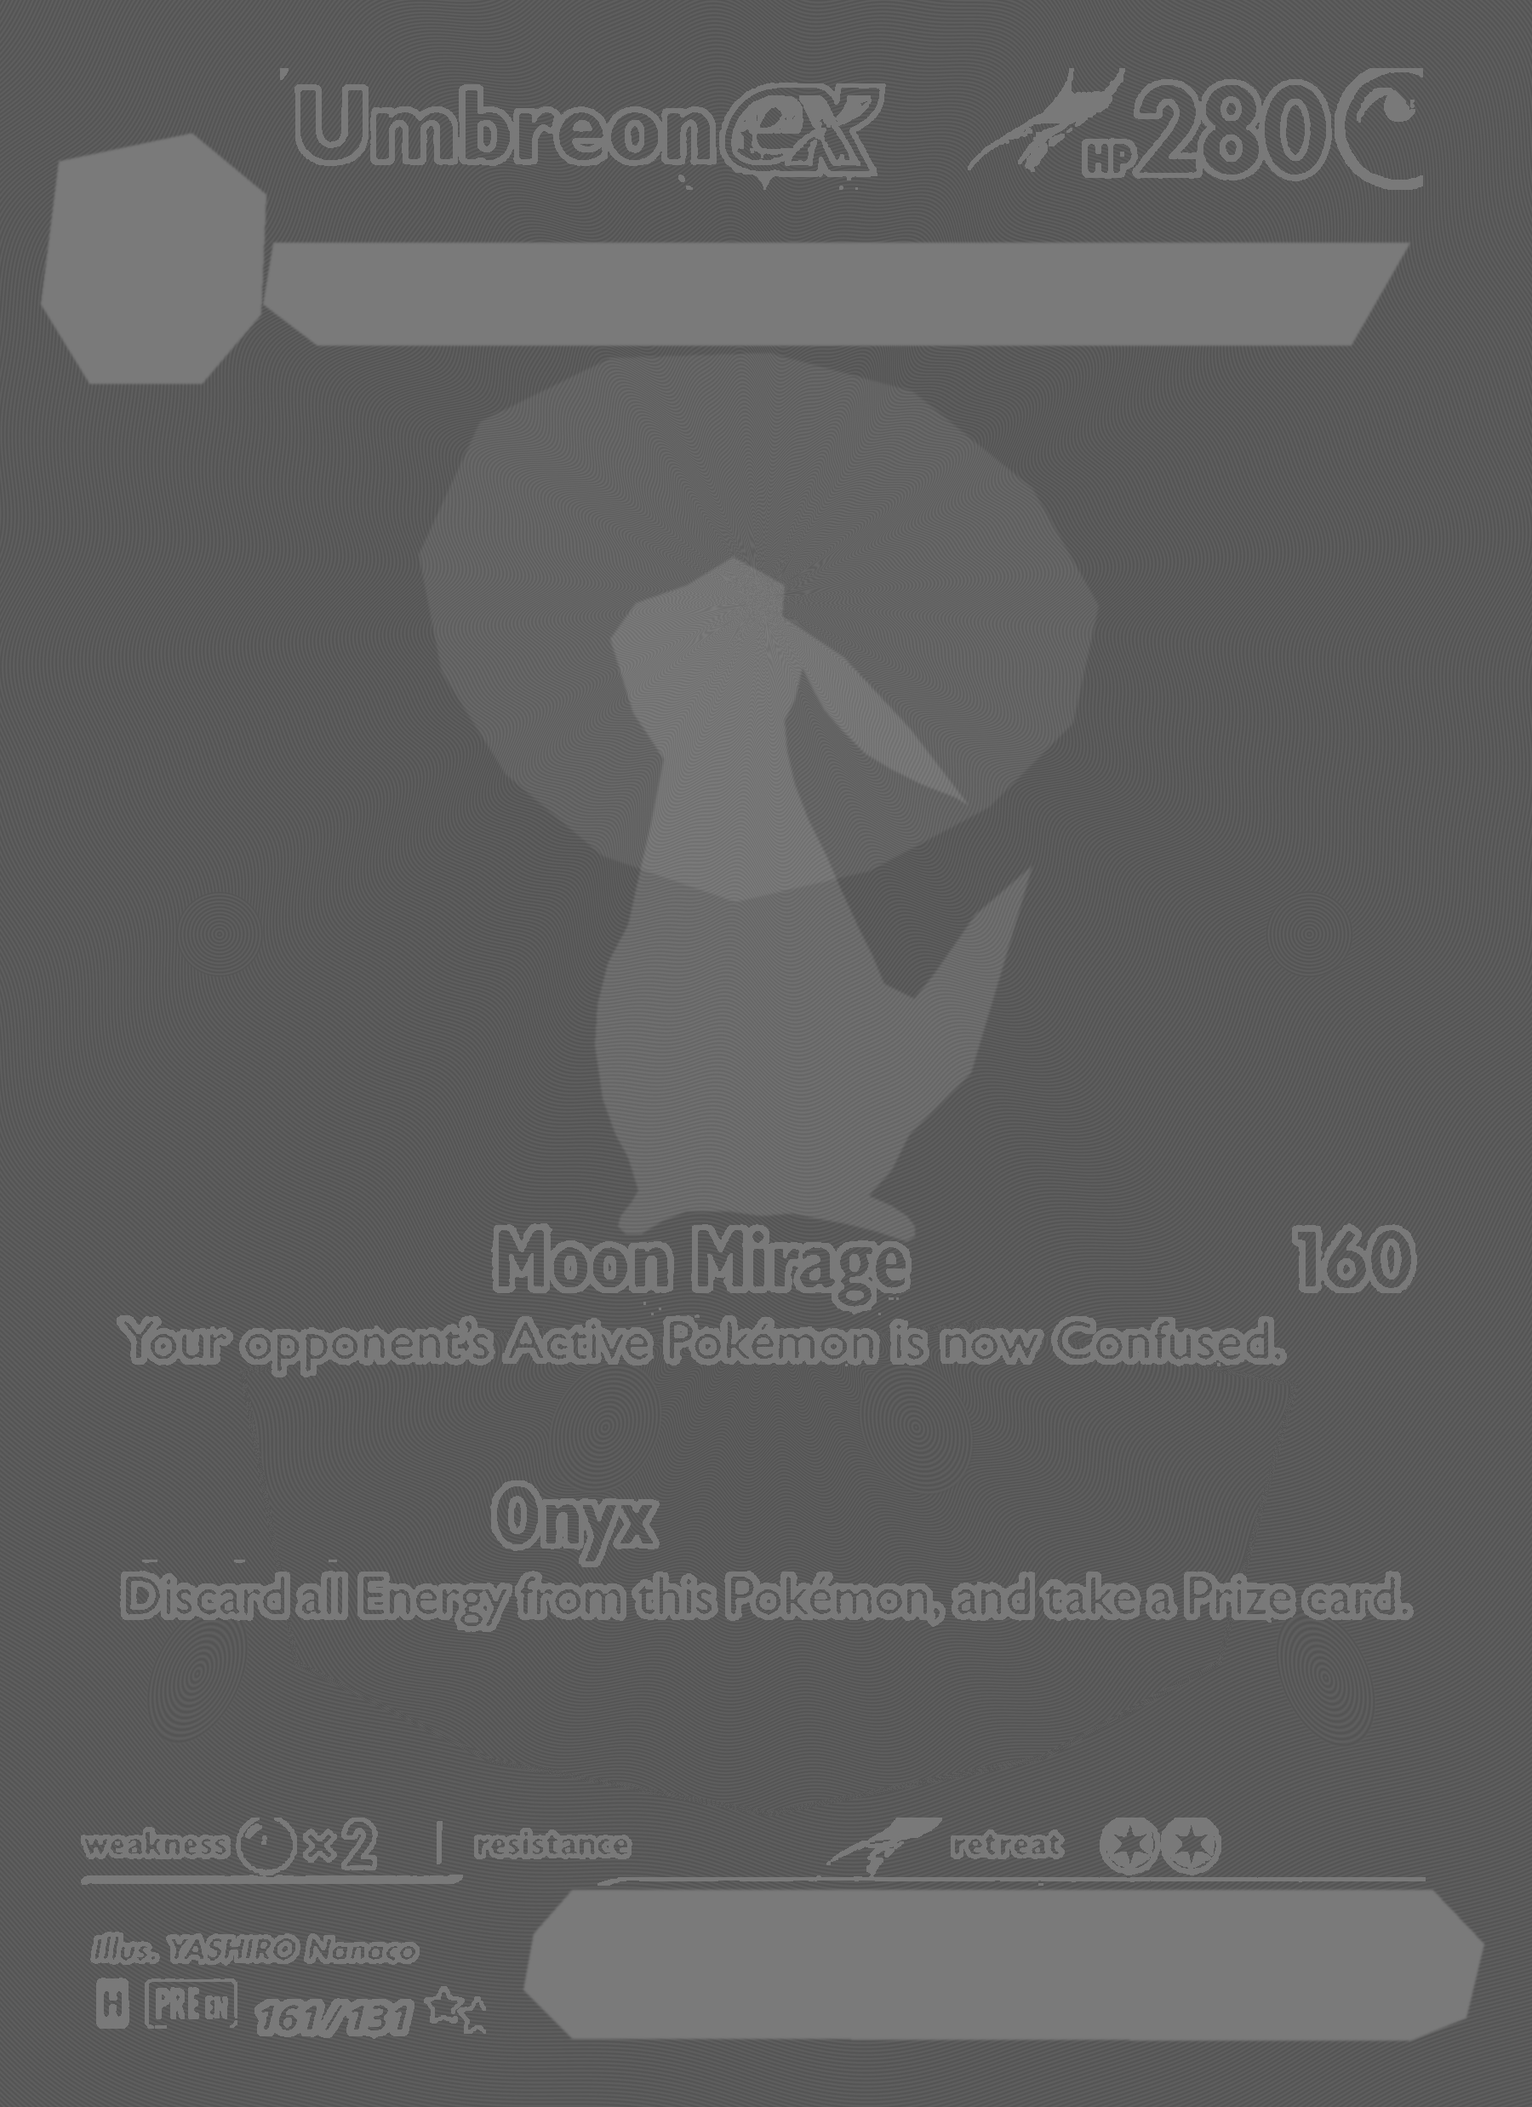
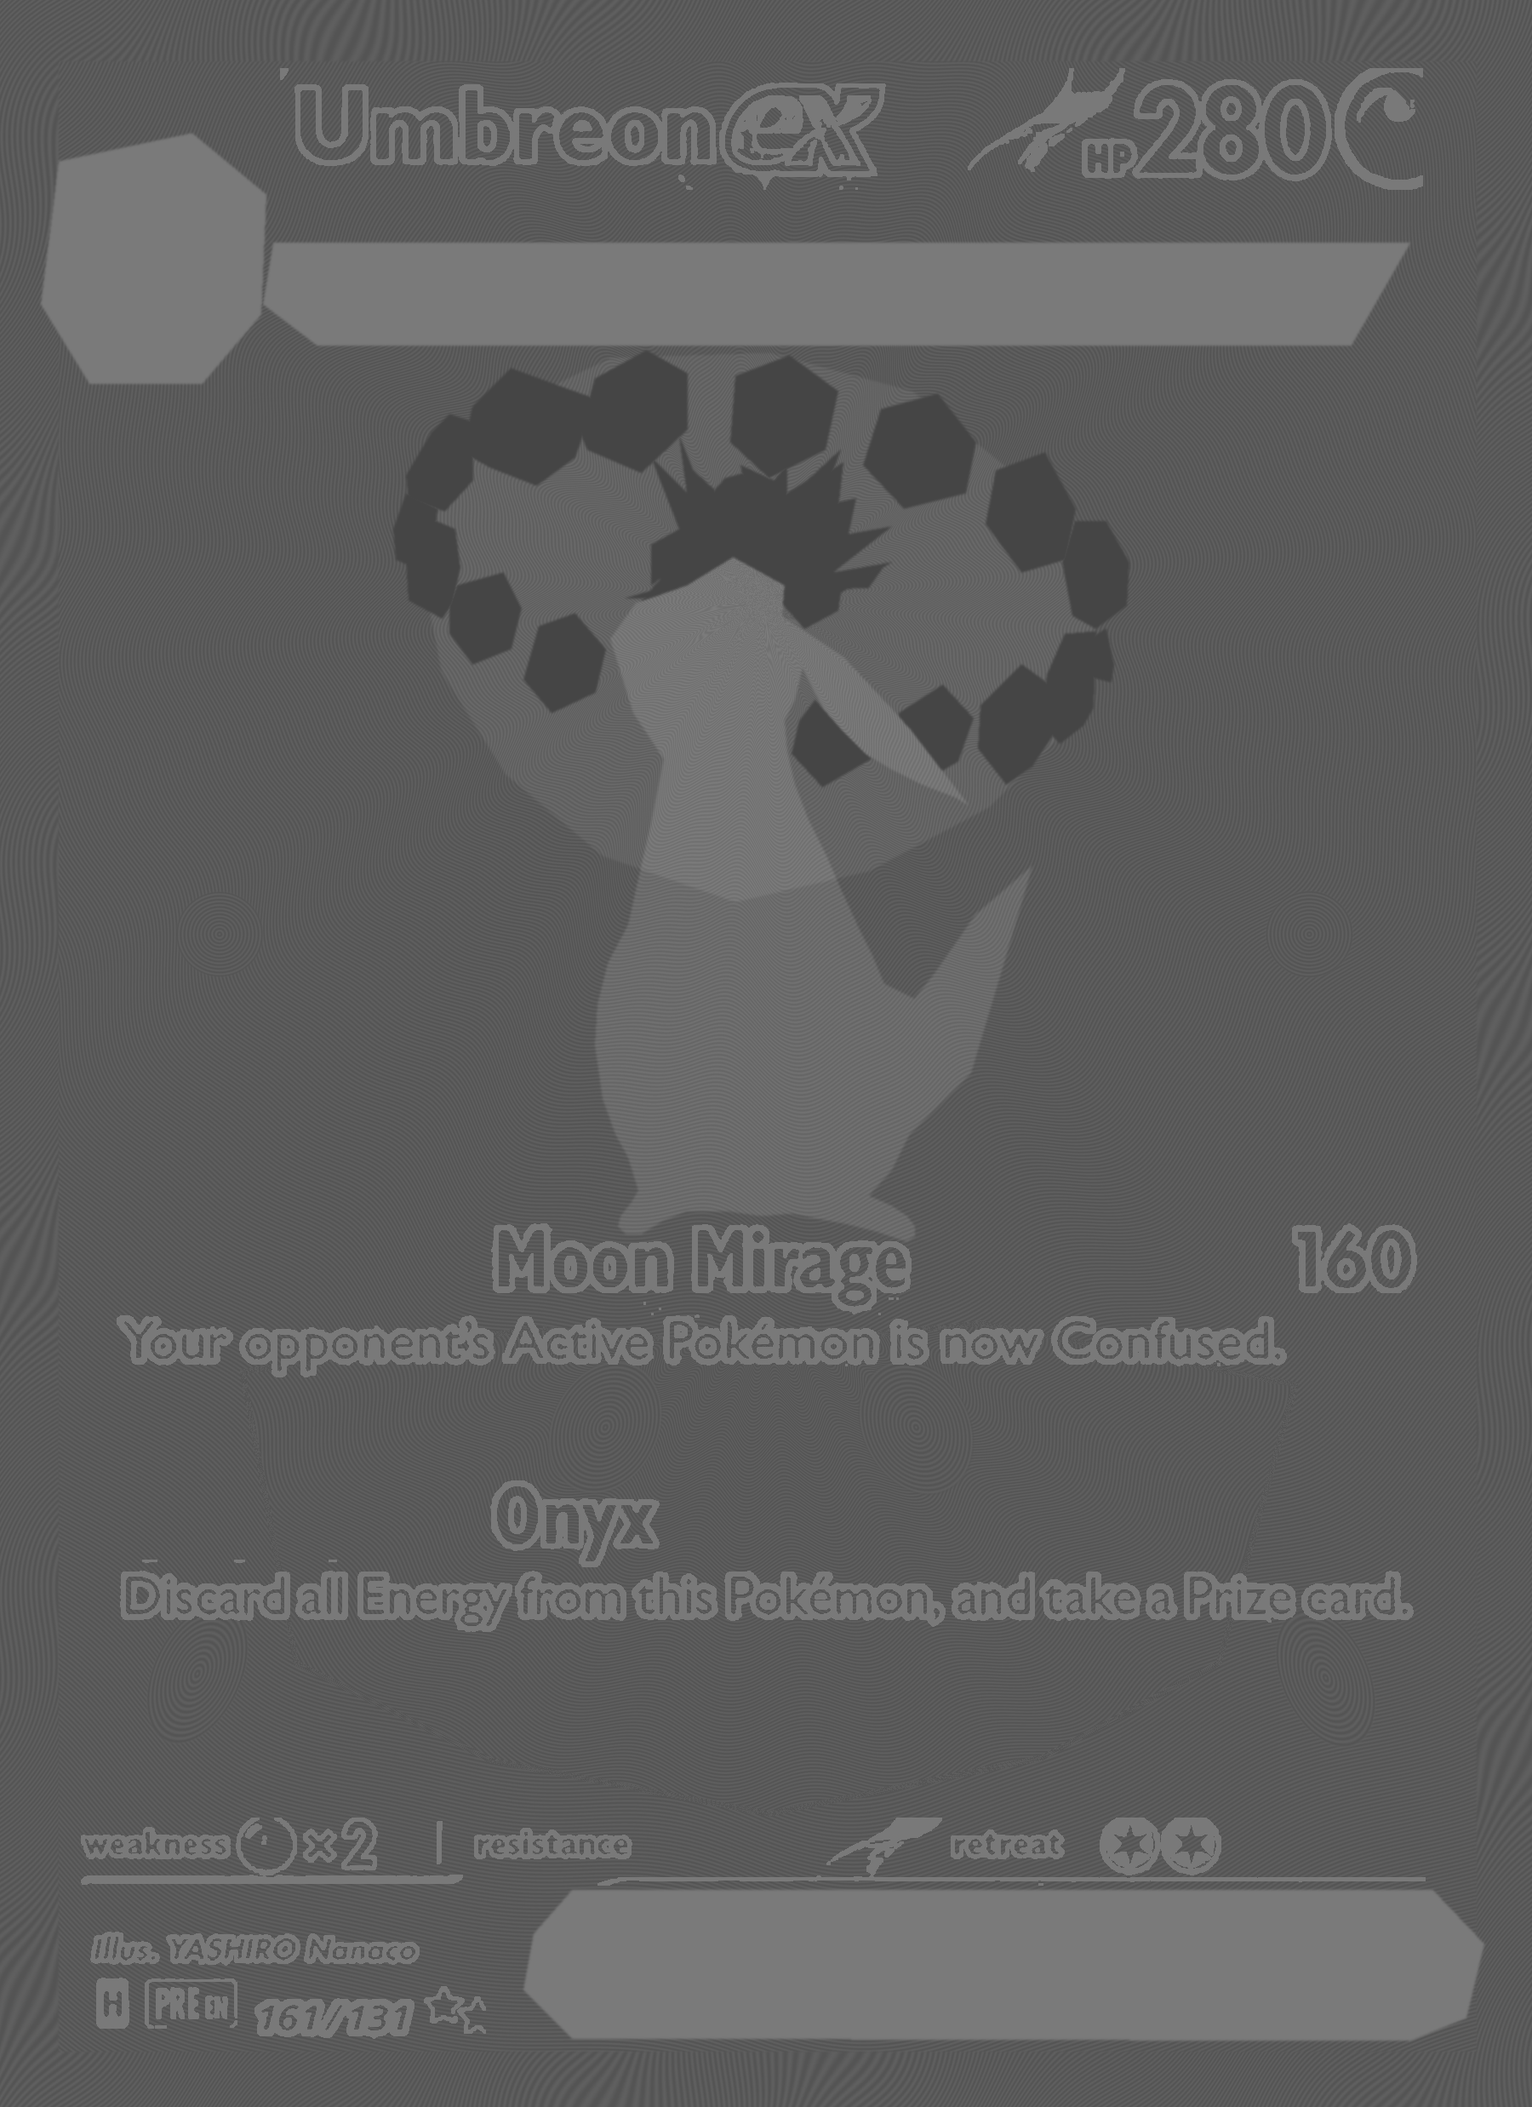
Add Umbreon crown microdiamond finish and rim etching

Changed region(s): [[0.2489, 0.1556, 0.7467, 0.3733], [0.4978, 0.3422, 0.56, 0.3733]]

diff --git a/src/materials/profiles/prismatic.ts b/src/materials/profiles/prismatic.ts
@@ -5,12 +5,18 @@ import type { HolographicProfile } from '../HolographicProfile';
  */
 export const prismaticProfiles: HolographicProfile[] = [{
   id: 'prismatic_sir_texture', name: 'Prismatic · SIR etched holo', family: 'Pokémon', status: 'development',
-  description: 'Umbreon ex 161/131: video-guided fine curved etching, restrained crystal-body reflection and broad spectral foil across the ornament and silver rim. Exact-card PNG normals redirect the sheet reflection; printed rules remain protected.',
+  description: 'Umbreon ex 161/131: fine curved background and edge etching, restrained crystal-body reflection, and separately masked microdiamond crown and gems. Exact-card PNG normals redirect the sheet reflection; printed rules remain protected.',
   diffraction: { period: 1.16, bandwidth: .048, strength: .48, secondaryOrder: .065, direction: -.48, crossWidth: .42, facetCoupling: 0, followsAuthoredNormals: true },
   structure: { field: 'plain', scale: 1, engraving: 0, relief: 0, patternRelief: 0, facetTilt: 0, reflectionCoupling: 0, normalVariance: 0 },
   glints: { density: 0, scale: 1, sharpness: 1, strength: 0, spread: 0 },
   surface: { metalness: .74, roughness: .32, laminate: .12, laminateRoughness: .27, foilReflectance: .055, sheen: 0, inkTransmission: .86 },
   mapSettings: { normalScale: 1, embossStrength: 0, roughnessMode: 'absolute' },
+  secondary: {
+    diffraction: { period: 1.1, bandwidth: .032, strength: .72, secondaryOrder: .10, direction: 0, crossWidth: .32, crossing: .5, facetCoupling: 1 },
+    structure: { field: 'diamond', scale: 620, engraving: .12, relief: 0, patternRelief: 0, facetTilt: .55, reflectionCoupling: .18, normalVariance: .35 },
+    glints: { density: 1, scale: 620, sharpness: 280, strength: 9, spread: .24, ordered: true },
+    surface: { metalness: .76, roughness: .27, laminate: .10, laminateRoughness: .24, foilReflectance: .055, inkTransmission: .82 },
+  },
 }, {
   id: 'prismatic_regular_holo', name: 'Prismatic · Regular holo', family: 'Pokémon', status: 'development',
   description: 'Smooth Scarlet & Violet horizontal holo sheet in the authored picture/background and silver rim. Opaque subject, evolution portrait, printed framing and rules stay protected. No raised etching.',

diff --git a/tests/prismatic.test.ts b/tests/prismatic.test.ts
@@ -13,7 +13,7 @@ import { prismaticProfiles } from '../src/materials/profiles/prismatic.ts';
 import { packAvailability } from '../src/pokemon/availability.ts';
 
 const path = new URL('../public/cards/pokemon/prismatic-evolutions/', import.meta.url);
-test('Umbreon SIR uses complete video-only surface assets and enters the picker', () => {
+test('Umbreon SIR uses registered surface assets and user-authorized finish references', () => {
   const card = prismaticPickerCards().find(card => card.pokemon?.id === 'sv08.5-161')!;
   assert.ok(card);
   assert.equal(card.profile, 'prismatic_sir_texture');
@@ -40,6 +40,19 @@ test('Umbreon SIR uses complete video-only surface assets and enters the picker'
   const profile = prismaticProfiles.find(profile => profile.id === card.profile)!;
   assert.equal(profile.diffraction.followsAuthoredNormals, true);
   assert.equal(profile.glints.strength, 0);
+  assert.equal(profile.secondary?.structure.field, 'diamond');
+  assert.equal(profile.secondary?.glints.ordered, true);
+  assert.equal(profile.secondary?.diffraction.crossing, .5);
+  assert.ok(card.maps?.secondaryFoil?.endsWith('161-holo-secondary-foil.png'));
+  const gemBytes = readFileSync(new URL('maps/161-holo-secondary-foil.png', path));
+  assert.equal(gemBytes.readUInt32BE(16), 1800);
+  assert.equal(gemBytes.readUInt32BE(20), 2475);
+  assert.equal(createHash('sha256').update(gemBytes).digest('hex'), evidence.maps['161-holo-secondary-foil.png']);
+  assert.equal(evidence.finishReferences.length, 2);
+  for (const reference of evidence.finishReferences) {
+    const bytes = readFileSync(new URL(`../research/prismatic-evolutions/umbreon-video/${reference.file}`, import.meta.url));
+    assert.equal(createHash('sha256').update(bytes).digest('hex'), reference.sha256);
+  }
   assert.throws(() => pokemonDefinition(prismaticCard('sv08.5-160'), 'holo', []), PrismaticSurfaceUnavailable);
 });
 

diff --git a/src/pokemon/PrismaticSurfaces.ts b/src/pokemon/PrismaticSurfaces.ts
@@ -24,6 +24,7 @@ const surfaces: Readonly<Record<string, PrismaticSurface>> = {
       foil: `${PRISMATIC_ASSETS}/maps/161-holo-foil.png`, protection: `${PRISMATIC_ASSETS}/maps/161-holo-protection.png`,
       height: `${PRISMATIC_ASSETS}/maps/161-holo-height.png`, normal: `${PRISMATIC_ASSETS}/maps/161-holo-normal.png`,
       roughness: `${PRISMATIC_ASSETS}/maps/161-holo-roughness.png`,
+      secondaryFoil: `${PRISMATIC_ASSETS}/maps/161-holo-secondary-foil.png`,
     },
     layout: { artwork: [23/600,137/825,577/600,708/825], innerFrame: [23/600,23/825,577/600,802/825] },
     mapSettings: { normalScale: 1, embossStrength: 0, roughnessMode: 'absolute' },

diff --git a/scripts/prismatic/umbreon_video_maps.py b/scripts/prismatic/umbreon_video_maps.py
@@ -1,4 +1,4 @@
-"""Umbreon 161 surface reconstruction from the user-supplied tilt video only.
+"""Umbreon 161 surface reconstruction from the user's video and finish details.
 
 The existing clean front is used for registration and ink protection, never for
 height extraction. Curve spacing/depth are calibrated approximations of the
@@ -43,6 +43,46 @@ ROSETTES = [
     (77.3,655.4,17.8,30.1,25), (519.2,657.0,17.8,29.6,-24),
 ]
 
+# Individually registered floating gems and crown shards. The clear moon gaps
+# between jewels are deliberately absent from this secondary material mask.
+GEM_POLYGONS = [
+    [(159,186),(169,169),(176,162),(185,165),(185,188),(174,200),(160,195)],
+    [(185,159),(200,144),(219,151),(233,156),(225,179),(210,190),(192,183),(181,177)],
+    [(233,148),(253,137),(269,146),(269,168),(251,185),(230,176),(227,169)],
+    [(288,147),(309,139),(328,153),(323,176),(301,187),(286,173)],
+    [(345,160),(367,154),(382,173),(378,193),(354,199),(338,182)],
+    [(390,184),(409,177),(421,199),(417,219),(400,224),(386,205)],
+    [(421,204),(433,204),(442,220),(441,237),(429,246),(420,241),(416,220)],
+    [(433,246),(436,260),(435,267),(427,265),(425,251)],
+    [(417,248),(429,247),(428,277),(424,284),(415,291),(407,283),(410,264)],
+    [(400,260),(411,268),(416,282),(404,300),(394,307),(383,293),(384,276)],
+    [(369,268),(381,281),(375,298),(363,305),(351,292),(352,279)],
+    [(319,274),(329,285),(341,297),(322,308),(310,295),(313,282)],
+    [(211,245),(225,240),(237,254),(233,271),(216,279),(205,266)],
+    [(179,229),(197,224),(204,238),(200,254),(185,260),(176,248),(176,237)],
+    [(164,201),(178,207),(180,222),(177,236),(173,242),(160,235),(159,219)],
+    [(159,193),(171,199),(169,219),(164,223),(155,219),(154,207)],
+    # Crown base and the separate crystal points rising into the moon.
+    [(255,179),(269,193),(266,171),(276,196),(284,187),(291,185),
+     (300,198),(316,188),(329,176),(321,198),(335,195),(332,209),
+     (349,206),(326,224),(349,220),(329,232),(328,239),(315,246),
+     (306,236),(291,228),(278,230),(266,235),(251,235),(260,225),
+     (255,229),(255,213),(266,207)],
+    [(245,234),(262,229),(275,216),(287,214),(299,222),(311,224),(312,238),
+     (300,231),(290,227),(280,231),(271,233),(260,234)],
+    [(257,215),(268,207),(268,218),(260,225),(255,229)],
+    [(270,207),(276,200),(277,214),(270,222)],
+    [(280,222),(287,211),(293,209),(291,222),(286,228)],
+    [(296,221),(307,213),(305,229),(298,235)],
+    [(308,230),(316,217),(316,232),(310,241)],
+    [(316,235),(326,228),(324,239),(316,245)],
+    [(273,196),(268,181),(280,192),(281,202)],
+    [(293,199),(290,182),(303,188),(308,182),(308,196),(299,203)],
+    [(313,205),(322,186),(330,181),(328,199)],
+    [(319,218),(335,209),(347,207),(333,217)],
+    [(320,231),(338,225),(347,220),(340,230)],
+]
+
 
 def ellipse_radius(x, y, spec):
     cx, cy, rx, ry, degrees = spec
@@ -78,6 +118,8 @@ def build(video):
     x, y = (xx+.5)/S, (yy+.5)/S
     inner = polygon([(23,24),(578,24),(578,803),(23,803)])
     subject = polygon(SUBJECT_POINTS)
+    gems = np.maximum.reduce([polygon(points) for points in GEM_POLYGONS])
+    gems *= 1-subject  # A hanging jewel passes behind the ear.
     moon = polygon([(188,165),(239,140),(301,138),(357,153),(404,191),(430,237),
                     (420,283),(387,316),(340,341),(288,353),(236,335),(198,303),(173,263),(164,217)])
     crown = polygon([(173,164),(214,142),(261,138),(306,137),(362,153),(403,185),(438,231),
@@ -109,6 +151,13 @@ def build(video):
         ring_phase = rr*spec[2]*2*np.pi/1.45
         relief = relief*(1-weight) + .58*np.sin(ring_phase)*weight
         rough_wave = rough_wave*(1-weight) + np.cos(ring_phase)*weight
+    # Continuous fine curved engraving across all four border strips, including
+    # corners. Only the rim receives this field; no discontinuous side tiles.
+    edge = 1-inner
+    edge_phase = .56*x + .34*y + 8*np.sin(.044*y+.018*x) + 4*np.cos(.061*x-.023*y)
+    edge_wave = edge_phase*2*np.pi/1.35
+    relief = relief*inner + .48*np.sin(edge_wave)*edge
+    rough_wave = rough_wave*inner + np.cos(edge_wave)*edge
     # Protection follows only printed lettering inside manually bounded text zones.
     front = np.asarray(Image.open(ROOT/'public/cards/pokemon/prismatic-evolutions/161.png').convert('RGB').resize((W,H)), dtype=np.float32)/255
     white_ink = (front.min(axis=2)>.66) & ((front.max(axis=2)-front.min(axis=2))<.19)
@@ -125,28 +174,32 @@ def build(video):
     # Differentiate physical grooves before applying opaque ink. Differentiating
     # the protection mask would introduce a false raised/dark rim around letters.
     gy,gx = np.gradient(relief,1/S,1/S)
-    gx *= 1-protection
-    gy *= 1-protection
-    relief *= 1-protection
+    gx *= (1-protection)*(1-gems)
+    gy *= (1-protection)*(1-gems)
+    relief *= (1-protection)*(1-gems)
     normal = np.stack([-gx*.055, gy*.055, np.ones_like(gx)],axis=2)
     normal /= np.linalg.norm(normal,axis=2,keepdims=True)
     foil = (.90*inner + .98*(1-inner))*(1-.48*subject)*(1-.12*moon)
     rough = .35 + .07*subject + .04*moon + .13*protection + .022*rough_wave*(1-protection)
+    rough = rough*(1-gems) + .27*gems
     arrays = {'foil':foil,'protection':protection,'height':.5+relief*.19,
-              'normal':normal*.5+.5,'roughness':rough}
+              'normal':normal*.5+.5,'roughness':rough,'secondary-foil':gems}
     maps = {}
     for name,array in arrays.items():
         file = OUT/f'161-holo-{name}.png'
         Image.fromarray(np.rint(np.clip(array,0,1)*255).astype(np.uint8)).save(file)
         maps[file.name] = hashlib.sha256(file.read_bytes()).hexdigest()
     evidence = dict(cardId='sv08.5-161',variant='holo',status='video-guided-reconstruction',
-                    rendererReady=True,textured=True,referencePolicy='Only the supplied video informs etching and holo.',
+                    rendererReady=True,textured=True,referencePolicy='Original video guides the body and ornament. User-supplied crown/gem and edge detail images guide the added microdiamond and rim finishes.',
                     video=dict(file=video.name,sha256=hashlib.sha256(video.read_bytes()).hexdigest()),
                     references=references,mapSize=[W,H],maps=maps,
+                    finishReferences=[dict(file=name,sha256=hashlib.sha256((REF/name).read_bytes()).hexdigest(),role=role)
+                                      for name,role in [('microdiamond-reference.png','User-authorized shared crown and gem finish from another card'),
+                                                        ('edge-reference.png','User-authorized Prismatic edge etching detail')]],
                     registrationCorrections='User annotations: filled chest and toe-tip silhouette gaps; fitted all six medallions with registered rotated ellipses; extended Onyx ink protection above the O and removed mask-induced normal edges.',
                     observations=['0–16s: full-face rainbow sweep, reflective rim, protected white rules panels.',
                                   '18–24s: fine curved background grooves, upright moon lines, subdued crystal subject, lower concentric ornament.'],
-                    limitations='Curve spacing, groove depth and optical constants are calibrated approximations. The video does not resolve every individual manufacturing incision. Clean front is retained for print and registration only; no other surface reference is used.')
+                    limitations='Curve spacing, groove depth and optical constants are calibrated approximations. The video does not resolve every individual manufacturing incision. Clean front is retained for print and registration only. The two later user-supplied detail images inform only the added crown/gem and rim finishes.')
     (OUT/'161-holo-evidence.json').write_text(json.dumps(evidence,indent=2)+'\n',encoding='utf8')
 
 

diff --git a/docs/umbreon-161-video.md b/docs/umbreon-161-video.md
@@ -1,17 +1,25 @@
 # Umbreon ex 161/131
 
 The picker entry `pokemon:sv08.5-161:holo` uses `prismatic_sir_texture`
-(Prismatic · SIR etched holo). Five registered 1800 × 2475 PNGs provide foil
-coverage, ink protection, height, normals and absolute roughness. Normal-driven
+(Prismatic · SIR etched holo). Six registered 1800 × 2475 PNGs provide foil
+coverage, ink protection, height, normals, absolute roughness and a separate
+crown/gem microdiamond mask. Normal-driven
 reflection and diffraction respond to the existing card tilt and studio lights.
-There are no independent sparkle particles or animated texture coordinates.
+The gem finish uses densely ordered pyramidal facets and two crossing grating
+directions, with fixed microscopic glints selected by light and viewing angle.
+The curved background and character keep their original optical layer.
 
-The sole surface reference is the user-supplied
+The original surface reference is the user-supplied
 `2026-09-24 17-52-17-00.00.09.028-00.00.33.805.mp4` (24.823 seconds).
 Seven lossless portrait crops, with timestamps and hashes, are retained under
 `research/prismatic-evolutions/umbreon-video/`. The public evidence manifest
 records the video hash and every delivered map hash. Earlier research photos
-were not used. The existing clean card front remains unchanged and supplies
+were not used. Two subsequently supplied detail images, explicitly authorized
+by the user, guide the microdiamond crown/gem finish and shallow curved rim
+engraving. They are retained as `microdiamond-reference.png` and
+`edge-reference.png` beside the video frames and hashed separately in the
+evidence manifest. The continuous edge grooves wrap all four border strips.
+The existing clean card front remains unchanged and supplies
 registration and printed-text protection only.
 
 The reconstruction separates the subdued crystal body, finer moon incisions,
